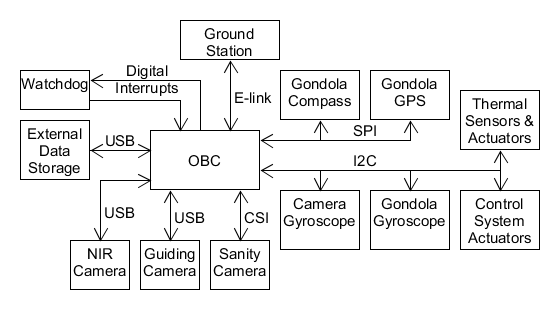
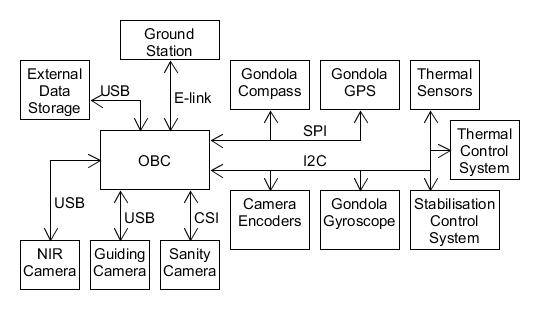
4.8 Software Design updated for SED v 2.0

diff --git a/4-experiment-design/4.8-software-design.tex b/4-experiment-design/4.8-software-design.tex
@@ -10,7 +10,7 @@ The purpose of the On-Board Software consists of:
 	\item Reading data from sensors and controlling actuators when needed.
 	\item Processing and storing images taken by camera.
 	\item Logging housekeeping data.
-	\item When possible, send images and housekeeping data to ground station.
+	\item When possible, sending images and housekeeping data to ground station.
 \end{itemize}
 
 The software is designed such that it can control the experiment autonomously throughout the whole experiment process but also enable control from ground through telecommands.
@@ -26,7 +26,7 @@ The software is designed such that it can control the experiment autonomously th
 	\label{fig:software-process-overview}
 \end{figure}
 
-All external components connected to the On-Board Computer and their interface are displayed in figure \ref{fig:software-process-overview}. The sanity camera provides an overview of the experiment and captures images on demand. The guiding camera provides an overall view in the direction the telescope is pointing and is also used as a star tracker to determine the gondola attitude. If necessary a secondary microcontroller will be added to support the high sampling frequency needed for the gyroscopes.
+All external components connected to the On-Board Computer and their interface are displayed in figure \ref{fig:software-process-overview}. The sanity camera provides an overview of the experiment and captures images on demand. The guiding camera provides an overall view in the direction the telescope is pointing and is also used as a star tracker to determine the gondola attitude. A secondary microcontroller will be used to support the high sampling frequency needed for the gyroscopes. This microcontroller will be polled by the OBC.
 
 \paragraph{b)} General and safety related concepts
 
@@ -34,25 +34,60 @@ To ensure that the software is not erroneous rigorous testing will be done durin
 
 \paragraph{c)} Interfaces
 
-If connection to ground is available, images compressed with a lossless compression will be sent down over the E-link over the course of the experiment. If the storage were to fail on touchdown for any reason, this would mean that not all data is lost.
+If connection to ground is available, images compressed with a lossless compression will be sent down over the E-link over the course of the experiment. If the storage were to fail on touchdown for any reason, this would mean that not all data is lost. All communications over the E-link will be done using TCP to ensure that packet loss won't corrupt data.
 
 \input{4-experiment-design/tables/software-interfaces.tex}
 
+All housekeeping data will be stored in the form of text documents. This data will be transmitted to ground periodically. In the beginning of observations, images from the guiding camera will also be transmitted to verify that the system is working as intended. In the case that the images from the guiding camera are not as expected, an image from the sanity camera can be transmitted on demand. This is the only case a sanity image would be transmitted.
+
+So long as there is additional headroom in the link budget, images from the NIR camera will be transmitted to ground. How many and when images are transmitted as well as an upper limit on the data rate if needed shall be controlled from ground. A minimum bandwidth of 300\,kbit/s is required for sensor data and guiding images. Once the initial guiding images has been received and verified, the nominal bandwidth required to transmit 10 images per hour is 500\,kbit/s. Any available bandwidth above that can be used to transmit additional images.
+
+\newpage
+The telecommands are very small compared to the telemetry. In the worst case scenario the command size is in the kbit range after all communication overhead is added. The following points shall be controllable from the ground station:
+
+\begin{itemize}
+	\item Rebooting the entire system.
+	\item Updating the list of targets and their priorities.
+	\item Calibrating the tracking to remove any offsets that may have appeared.
+	\item Choosing how fast and how many NIR images will be transmitted.
+	\item Setting camera settings such as exposure time and sensor gain.
+	\item On-command image capturing with the guiding or sanity cameras.
+\end{itemize}
+
+
+
+
+
+
+
+
+
+
+
+
+
 \paragraph{d)} Data acquisition and storage
+
+All data will be compressed using zstd, a lossless compression. The resulting compression ratio is heavily dependent on the contents of the data. A ratio of 2:1 (original data size to compressed) is used as a rough estimate from testing.
 
 The main bulk of data handled is the images taken by the cameras. Housekeeping data such as positioning, camera direction, time, etc will also be stored along with the images. The On-Board Computer has one SD card used for the OS and temporary storage. For the external data storage two SD cards are used for redundancy purposes. All data shall be saved on these external SD-cards.
 
-As the NIR camera has a resolution of $5496 * 3672$ and a colour depth of 12\,bits, the raw image size will be 30.27\,MB. For a 4\,hour float phase and an exposure time of 30\,s a total of  14.53\,GB is required in on-board data storage for the images. An exposure time of 30\,s can't be guaranteed e.g. due to movements of the gondola. If the exposure time is dropped to 10\,s the total amount of data for continuous image capturing is  43.6\,GB.
+Both the NIR camera and the guiding camera have a colour depth of 12\,bits, but the image file format demands 16\,bits\,per\,pixel. This results in extra zero-padding on the data. However as this appears regularly, the compression algorithm can easily reduce the size overhead greatly.
 
-The guiding camera has a resolution of $1936 * 1096$ and a colour depth of 12\,bits leading to a raw image size of 3.18\,MB. If the guiding camera is sampled every 10\,seconds the total data required for the images is 4.58\,GB.
+As the NIR camera has a resolution of $5496 * 3672$ and 16\,bits\,per\,pixel, the raw image compressed size will be 20.18\,MB. For a 4\,hour float phase and an exposure time of 30\,s a total of  9.69\,GB is required in on-board data storage for the images. An exposure time of 30\,s can't be guaranteed e.g. due to movements of the gondola. If the exposure time is dropped to 10\,s the total amount of data for continuous image capturing is  29.06\,GB.
+
+The guiding camera has a resolution of $1936 * 1096$ and 16\,bits\,per\,pixel, leading to a raw image compressed size of 2.12\,MB. If the guiding camera is sampled every 10\,seconds the total data required for the images is 3.05\,GB.
 
 As the housekeeping data is negligible in size compared to the images and as the sanity images are only taken on demand, an SD-card size of 64\,GB will be sufficient for all data storage.
 
-With a maximum of 1\,Mbit per second data transfer rate to ground it takes at least 145.5\,s to transfer one image compressed losslessly to 60\,\% of original size. This means that with little down time between observations and for most exposure times, not all images can be transmitted to ground.
+With a maximum of 1\,Mbit per second data transfer rate to ground it takes at least 161.5\,s to transfer one image compressed losslessly to 50\,\% of original size. This means that with little down time between observations and for most exposure times, not all images can be transmitted to ground.
+
+The minimum data rate to the external storage required to save NIR images every 30\,s, guiding camera images every 10\,s, and sensor data polled each second is 900\,kbit/s.
+
 
 \paragraph{e)} Process Flow
 
-Pre-launch tests shall be conducted to ensure that all systems work as expected. Afterwards the system shall enter a sleep mode, a low activity state, with the camera in a safe launch position. During the ascent the thermal control system shall be running to ensure that all components of the experiment are within nominal temperature ranges.
+The system can either start in a testing mode, or normal operation. The testing mode is used for pre-flight tests to ensure that all systems are working as intended. Afterwards the system shall enter a sleep mode, a low activity state, with the camera in a safe launch position. During the ascent the thermal control system shall be running to ensure that all components of the experiment are within nominal temperature ranges.
 
 When the float phase is reached, the system will wake. This is done by tracking the altitude of the gondola using GPS data. After wake-up the system shall find its orientation and the position of the sun. Finally tracking and observation can start.
 
@@ -77,7 +112,7 @@ At the end of the floating phase the camera shall be oriented in a landing posit
 
 \begin{figure}[H]
 	\centering
-	\includegraphics[width=.5\textwidth]{4-experiment-design/img/software/state-diagram.png}
+	\includegraphics[width=.7\textwidth]{4-experiment-design/img/software/state-diagram.png}
 	\caption{State diagram for On-Board Software.}
 	\label{fig:software-state-diagram}
 \end{figure}
@@ -154,7 +189,7 @@ Figure \ref{fig:software-composition-tree} shows how the complete software is mo
 
 \subsubsection{Implementation}
 
-The code for the On-Board Software shall be implemented in C. An operating system will be used to enable the modularisation required. The chosen operating system is Linux with the Preempt RT kernel patch. Additional libraries, such as the ASI SDK library used for controlling the cameras, will be needed.
+The code for the On-Board Software shall be implemented in C. An operating system will be used to enable the modularisation required. The chosen operating system is Linux with the Preempt RT kernel patch. Additional libraries, such as the ASI SDK library used for controlling the cameras, will be needed. The compression used for the telemetry is supplied by the zstd library.
 
 
 

diff --git a/4-experiment-design/tables/software-interfaces.tex b/4-experiment-design/tables/software-interfaces.tex
@@ -21,7 +21,7 @@
 		& SPI                \\
 		Gondola Gyroscope
 		& I2C                \\
-		Camera Gyroscope   
+		Camera Encoders   
 		& I2C                \\
 		Controller Actuators
 		& I2C                \\
